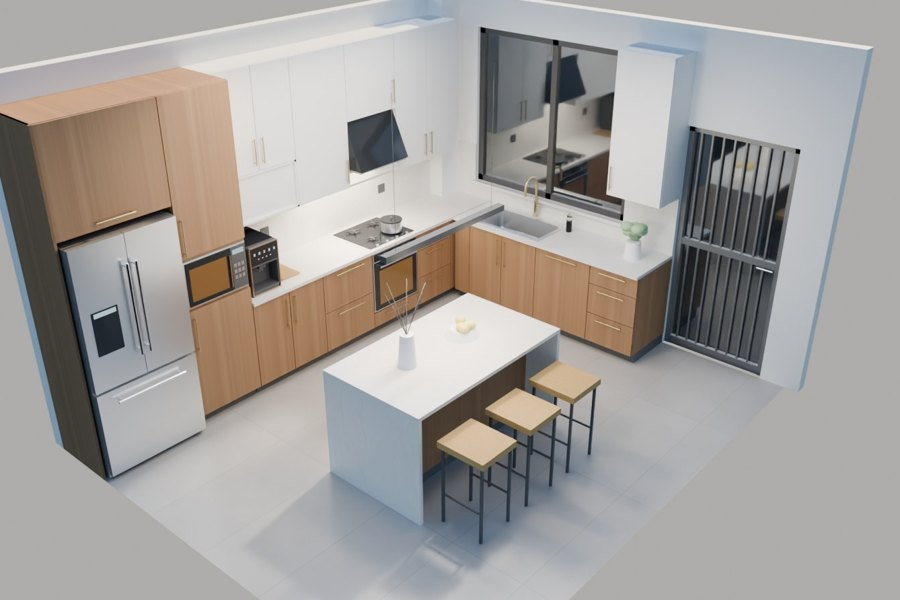
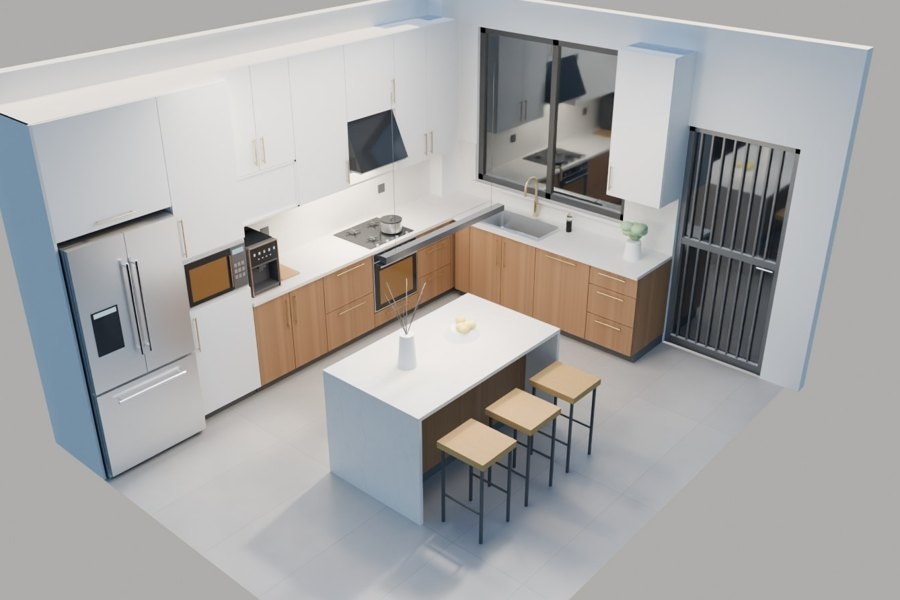
Awes: HD renders for Brown & white (new layout); menu cover updated
Claude-Session: https://claude.ai/code/session_01Df1aZbcL3CFrpdhw9hWgdy

Changed region(s): [[0.0, 0.06, 0.3111, 0.81]]

diff --git a/awes/index.html b/awes/index.html
@@ -1146,7 +1146,8 @@ function shot(name,w,h){
 }
 // Designs with Blender (Cycles) renders shipped beside the page in renders/<style>-<palette>-<island>-<view>.jpg
 const RENDERED=new Set(['modern-green-white-plain','med-green-plain','farm-green-white-stools',
-  'modern-green-white-plain-pt','med-green-plain-pt','farm-green-white-stools-pt']);
+  'modern-green-white-plain-pt','med-green-plain-pt','farm-green-white-stools-pt',
+  'modern-brown-white-stools','med-brown-white-stools','modern-brown-white-stools-pt','med-brown-white-stools-pt']);
 async function loadRender(key,view){
   try{const r=await fetch(`renders/${key}-${view}.jpg`); if(!r.ok)return null; const b=await r.blob();
     return await new Promise(res=>{const fr=new FileReader(); fr.onload=()=>res(fr.result); fr.onerror=()=>res(null); fr.readAsDataURL(b);});}catch(e){return null;}
